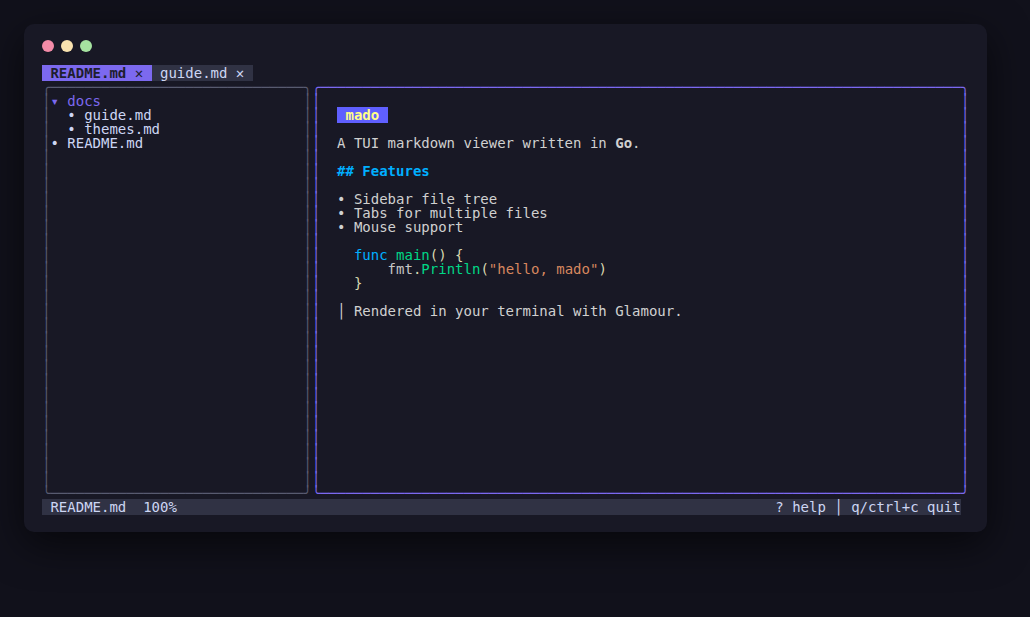
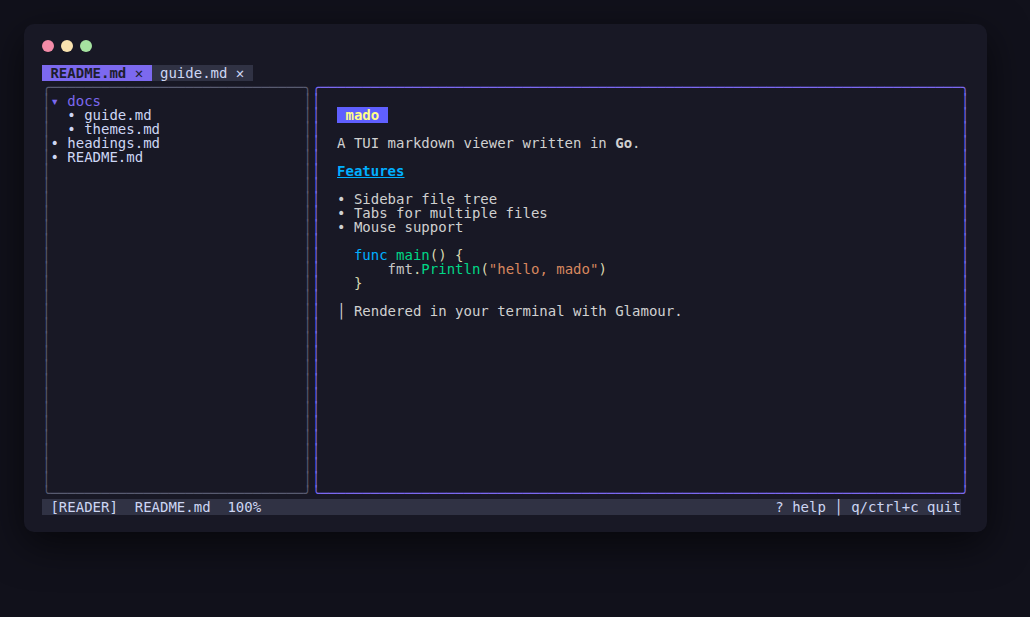
Add reader/source view modes
Two ways to look at a file, toggled with 'm' (configurable via
keys.toggle_mode):

- Reader (default): markdown rendered as a clean document. Heading
  markers (##) are stripped; levels are shown via color, underline
  (h2), and italics (h4-h6) instead.
- Source: the raw markdown text, word-wrapped, for checking syntax.

The startup mode is configurable with theme.default_mode. The glamour
style is now resolved once at startup so renders never query the
terminal mid-session. README gains a mode-comparison screenshot and the
main screenshot is recaptured in the new reader mode.

Claude-Session: https://claude.ai/code/session_01GaV2dLFXSpHuvPtTDdCWdE

Changed region(s): [[0.0311, 0.8006, 0.2485, 0.8314], [0.0621, 0.2156, 0.1553, 0.2771], [0.3107, 0.2464, 0.4039, 0.3079]]

diff --git a/internal/ui/model.go b/internal/ui/model.go
@@ -10,7 +10,11 @@ import (
 	"github.com/charmbracelet/bubbles/viewport"
 	tea "github.com/charmbracelet/bubbletea"
 	"github.com/charmbracelet/glamour"
+	"github.com/charmbracelet/glamour/ansi"
+	gstyles "github.com/charmbracelet/glamour/styles"
 	"github.com/charmbracelet/lipgloss"
+	"github.com/muesli/reflow/wordwrap"
+	"github.com/muesli/termenv"
 
 	"github.com/hidekingerz/mado/internal/config"
 	"github.com/hidekingerz/mado/internal/filetree"
@@ -23,6 +27,24 @@ const (
 	focusContent
 )
 
+// viewMode selects how a file's content is displayed.
+type viewMode int
+
+const (
+	// modeReader renders markdown as a clean document (no ##/### syntax
+	// markers; heading levels are shown via color and underline).
+	modeReader viewMode = iota
+	// modeSource shows the raw markdown, for checking the syntax itself.
+	modeSource
+)
+
+func (v viewMode) String() string {
+	if v == modeSource {
+		return "SOURCE"
+	}
+	return "READER"
+}
+
 const (
 	tabBarHeight    = 1
 	statusBarHeight = 1
@@ -31,12 +53,13 @@ const (
 
 // tab is one open file.
 type tab struct {
-	path      string
-	title     string
-	raw       string
-	vp        viewport.Model
-	rendered  int // viewport width the content was last rendered at; 0 = never
-	renderErr string
+	path         string
+	title        string
+	raw          string
+	vp           viewport.Model
+	rendered     int // viewport width the content was last rendered at; 0 = never
+	renderedMode viewMode
+	renderErr    string
 }
 
 // tabRegion records where a tab was drawn in the tab bar, for mouse
@@ -61,6 +84,8 @@ type Model struct {
 	treeOff   int
 	sidebar   bool
 	focus     focusArea
+	mode      viewMode
+	style     string // resolved glamour style ("auto" already decided)
 	showHelp  bool
 	statusMsg string
 
@@ -92,6 +117,10 @@ func New(cfg config.Config, rootDir string, initialFiles []string) (Model, error
 		return Model{}, err
 	}
 
+	mode := modeReader
+	if cfg.Theme.DefaultMode == "source" {
+		mode = modeSource
+	}
 	accent := lipgloss.Color(cfg.Theme.AccentColor)
 	m := Model{
 		cfg:      cfg,
@@ -100,6 +129,8 @@ func New(cfg config.Config, rootDir string, initialFiles []string) (Model, error
 		treeOpts: opts,
 		sidebar:  true,
 		focus:    focusSidebar,
+		mode:     mode,
+		style:    resolveStyle(cfg.Theme.Style),
 		styles: styles{
 			accent:    lipgloss.NewStyle().Foreground(accent),
 			border:    lipgloss.NewStyle().Foreground(lipgloss.Color(cfg.Theme.BorderColor)),
@@ -213,6 +244,13 @@ func (m Model) handleKey(msg tea.KeyMsg) (tea.Model, tea.Cmd) {
 		}
 	case key.Matches(msg, k.Reload):
 		m.reload()
+	case key.Matches(msg, k.ToggleMode):
+		if m.mode == modeReader {
+			m.mode = modeSource
+		} else {
+			m.mode = modeReader
+		}
+		m.ensureRendered(m.activeTab())
 	}
 	return m, nil
 }
@@ -384,13 +422,13 @@ func (m *Model) reload() {
 }
 
 // ensureRendered (re-)renders a tab's content at the current viewport
-// width if needed.
+// width and view mode if needed.
 func (m *Model) ensureRendered(t *tab) {
 	if t == nil {
 		return
 	}
 	w := m.contentInnerWidth()
-	if w <= 0 || t.rendered == w {
+	if w <= 0 || (t.rendered == w && t.renderedMode == m.mode) {
 		return
 	}
 	t.vp.Width = w
@@ -398,8 +436,10 @@ func (m *Model) ensureRendered(t *tab) {
 	t.renderErr = ""
 
 	content := t.raw
-	if filetree.IsMarkdown(t.path) {
-		r, err := newRenderer(m.cfg.Theme.Style, w)
+	if m.mode == modeSource || !filetree.IsMarkdown(t.path) {
+		content = wordwrap.String(t.raw, w-2)
+	} else {
+		r, err := newRenderer(m.style, w)
 		if err == nil {
 			var out string
 			out, err = r.Render(t.raw)
@@ -409,26 +449,60 @@ func (m *Model) ensureRendered(t *tab) {
 		}
 		if err != nil {
 			t.renderErr = err.Error()
-			content = t.raw
+			content = wordwrap.String(t.raw, w-2)
 		}
 	}
 	off := t.vp.YOffset
 	t.vp.SetContent(content)
 	t.vp.SetYOffset(off)
 	t.rendered = w
+	t.renderedMode = m.mode
+}
+
+// resolveStyle pins "auto" to dark or light once at startup, so that
+// renders inside the running program never query the terminal.
+func resolveStyle(style string) string {
+	if style == "" || style == "auto" {
+		if termenv.HasDarkBackground() {
+			return "dark"
+		}
+		return "light"
+	}
+	return style
 }
 
 func newRenderer(style string, width int) (*glamour.TermRenderer, error) {
 	opts := []glamour.TermRendererOption{glamour.WithWordWrap(width - 2)}
 	switch {
-	case style == "" || style == "auto":
-		opts = append(opts, glamour.WithAutoStyle())
 	case strings.HasSuffix(style, ".json"):
 		opts = append(opts, glamour.WithStylePath(style))
 	default:
-		opts = append(opts, glamour.WithStandardStyle(style))
+		if base, ok := gstyles.DefaultStyles[style]; ok {
+			sc := readerStyle(*base)
+			opts = append(opts, glamour.WithStyles(sc))
+		} else {
+			opts = append(opts, glamour.WithStandardStyle(style))
+		}
 	}
 	return glamour.NewTermRenderer(opts...)
+}
+
+// readerStyle adapts a glamour style for reading: the literal ##/###
+// heading markers are dropped, and heading levels are distinguished by
+// underline (h2) and italics (h4-h6) instead.
+func readerStyle(base ansi.StyleConfig) ansi.StyleConfig {
+	sc := base
+	on := true
+	sc.H2.Prefix = ""
+	sc.H2.Underline = &on
+	sc.H3.Prefix = ""
+	sc.H4.Prefix = ""
+	sc.H4.Italic = &on
+	sc.H5.Prefix = ""
+	sc.H5.Italic = &on
+	sc.H6.Prefix = ""
+	sc.H6.Italic = &on
+	return sc
 }
 
 // ── tree cursor / scrolling ─────────────────────────────────────────

diff --git a/internal/config/config.go b/internal/config/config.go
@@ -19,7 +19,10 @@ type Config struct {
 type Theme struct {
 	// Style is a glamour style: "auto", "dark", "light", "dracula",
 	// "notty", "ascii", or a path to a glamour style JSON file.
-	Style       string `toml:"style"`
+	Style string `toml:"style"`
+	// DefaultMode is the view mode files open in: "reader" renders
+	// markdown as a clean document, "source" shows the raw syntax.
+	DefaultMode string `toml:"default_mode"`
 	AccentColor string `toml:"accent_color"`
 	BorderColor string `toml:"border_color"`
 	SelectionFg string `toml:"selection_fg"`
@@ -52,6 +55,7 @@ type Keys struct {
 	Top           []string `toml:"top"`
 	Bottom        []string `toml:"bottom"`
 	Reload        []string `toml:"reload"`
+	ToggleMode    []string `toml:"toggle_mode"`
 	Help          []string `toml:"help"`
 }
 
@@ -60,6 +64,7 @@ func Default() Config {
 	return Config{
 		Theme: Theme{
 			Style:       "auto",
+			DefaultMode: "reader",
 			AccentColor: "#7C6AEF",
 			BorderColor: "#585B70",
 			SelectionFg: "#1E1E2E",
@@ -87,6 +92,7 @@ func Default() Config {
 			Top:           []string{"g", "home"},
 			Bottom:        []string{"G", "end"},
 			Reload:        []string{"r", "f5"},
+			ToggleMode:    []string{"m"},
 			Help:          []string{"?"},
 		},
 	}
@@ -131,6 +137,7 @@ func Load(path string) (Config, error) {
 
 func merge(dst *Config, src Config) {
 	mergeStr(&dst.Theme.Style, src.Theme.Style)
+	mergeStr(&dst.Theme.DefaultMode, src.Theme.DefaultMode)
 	mergeStr(&dst.Theme.AccentColor, src.Theme.AccentColor)
 	mergeStr(&dst.Theme.BorderColor, src.Theme.BorderColor)
 	mergeStr(&dst.Theme.SelectionFg, src.Theme.SelectionFg)
@@ -158,6 +165,7 @@ func merge(dst *Config, src Config) {
 	mergeKeys(&dst.Keys.Top, src.Keys.Top)
 	mergeKeys(&dst.Keys.Bottom, src.Keys.Bottom)
 	mergeKeys(&dst.Keys.Reload, src.Keys.Reload)
+	mergeKeys(&dst.Keys.ToggleMode, src.Keys.ToggleMode)
 	mergeKeys(&dst.Keys.Help, src.Keys.Help)
 }
 

diff --git a/internal/ui/model_test.go b/internal/ui/model_test.go
@@ -3,6 +3,7 @@ package ui
 import (
 	"os"
 	"path/filepath"
+	"strings"
 	"testing"
 
 	tea "github.com/charmbracelet/bubbletea"
@@ -149,6 +150,49 @@ func TestToggleSidebar(t *testing.T) {
 	}
 	if m.View() == "" {
 		t.Error("view should render without sidebar")
+	}
+}
+
+func TestToggleModeSwitchesReaderAndSource(t *testing.T) {
+	m := testModel(t, map[string]string{"a.md": "## Heading\n\nbody text\n"}, "a.md")
+	if m.mode != modeReader {
+		t.Fatal("default mode should be reader")
+	}
+	reader := m.tabs[0].vp.View()
+	if strings.Contains(reader, "## Heading") {
+		t.Errorf("reader mode should not show the ## marker:\n%s", reader)
+	}
+
+	m = update(t, m, tea.KeyMsg{Type: tea.KeyRunes, Runes: []rune{'m'}})
+	if m.mode != modeSource {
+		t.Fatal("mode should toggle to source")
+	}
+	source := m.tabs[0].vp.View()
+	if !strings.Contains(source, "## Heading") {
+		t.Errorf("source mode should show the raw syntax:\n%s", source)
+	}
+
+	m = update(t, m, tea.KeyMsg{Type: tea.KeyRunes, Runes: []rune{'m'}})
+	if m.mode != modeReader {
+		t.Fatal("mode should toggle back to reader")
+	}
+}
+
+func TestDefaultModeFromConfig(t *testing.T) {
+	dir := t.TempDir()
+	path := filepath.Join(dir, "a.md")
+	if err := os.WriteFile(path, []byte("# A"), 0o644); err != nil {
+		t.Fatal(err)
+	}
+	cfg := config.Default()
+	cfg.Theme.Style = "notty"
+	cfg.Theme.DefaultMode = "source"
+	m, err := New(cfg, dir, []string{path})
+	if err != nil {
+		t.Fatal(err)
+	}
+	if m.mode != modeSource {
+		t.Error("default_mode = source should start in source mode")
 	}
 }
 

diff --git a/internal/ui/view.go b/internal/ui/view.go
@@ -173,6 +173,7 @@ func (m Model) renderHelp(w, h int) string {
 		{k.Top.Help().Key, k.Top.Help().Desc},
 		{k.Bottom.Help().Key, k.Bottom.Help().Desc},
 		{k.Reload.Help().Key, k.Reload.Help().Desc},
+		{k.ToggleMode.Help().Key, k.ToggleMode.Help().Desc},
 		{k.Help.Help().Key, k.Help.Help().Desc},
 		{k.Quit.Help().Key, k.Quit.Help().Desc},
 	}
@@ -198,7 +199,7 @@ func (m Model) renderHelp(w, h int) string {
 func (m Model) renderStatusBar() string {
 	left := " "
 	if t := m.activeTab(); t != nil {
-		left += t.path
+		left += "[" + m.mode.String() + "]  " + t.path
 		left += fmt.Sprintf("  %3.0f%%", t.vp.ScrollPercent()*100)
 		if t.renderErr != "" {
 			left += "  [render error: " + t.renderErr + "]"

diff --git a/internal/ui/keys.go b/internal/ui/keys.go
@@ -21,6 +21,7 @@ type keyMap struct {
 	Top           key.Binding
 	Bottom        key.Binding
 	Reload        key.Binding
+	ToggleMode    key.Binding
 	Help          key.Binding
 }
 
@@ -43,6 +44,7 @@ func newKeyMap(k config.Keys) keyMap {
 		Top:           bind(k.Top, "go to top"),
 		Bottom:        bind(k.Bottom, "go to bottom"),
 		Reload:        bind(k.Reload, "reload"),
+		ToggleMode:    bind(k.ToggleMode, "reader/source mode"),
 		Help:          bind(k.Help, "toggle help"),
 	}
 }

diff --git a/README.md b/README.md
@@ -9,6 +9,7 @@
 ## Features
 
 - **Markdown rendering** in the terminal via Glamour
+- **Reader / source modes** — toggle between a clean document view and the raw markdown syntax with one key
 - **Sidebar file tree** rooted at the current directory (lazy-loaded, collapsible)
 - **Multiple open files** — each file opens in its own tab
 - **Mouse support** — click files to open, click tabs to switch, click `✕` to close, scroll wheel in both panes
@@ -40,6 +41,20 @@ mado -style dracula   # override the markdown theme
 mado -config my.toml  # use an alternate config file
 ```
 
+### View modes
+
+There are two ways to look at a file, switched with `m`:
+
+- **Reader** (default) — markdown rendered as a clean document. Heading
+  markers (`##`) are hidden; levels are distinguished by color,
+  underline, and italics.
+- **Source** — the raw markdown text, for checking the syntax itself.
+
+![reader and source modes](docs/assets/modes.png)
+
+The startup mode can be set with `default_mode = "source"` in the
+config.
+
 ### Default key bindings
 
 | Key                | Action                          |
@@ -54,6 +69,7 @@ mado -config my.toml  # use an alternate config file
 | `ctrl+d`/`ctrl+u`  | half page down / up             |
 | `g`/`G`            | go to top / bottom              |
 | `r`/`F5`           | reload tree and current file    |
+| `m`                | toggle reader / source mode     |
 | `?`                | help                            |
 | `q`/`ctrl+c`       | quit                            |
 
